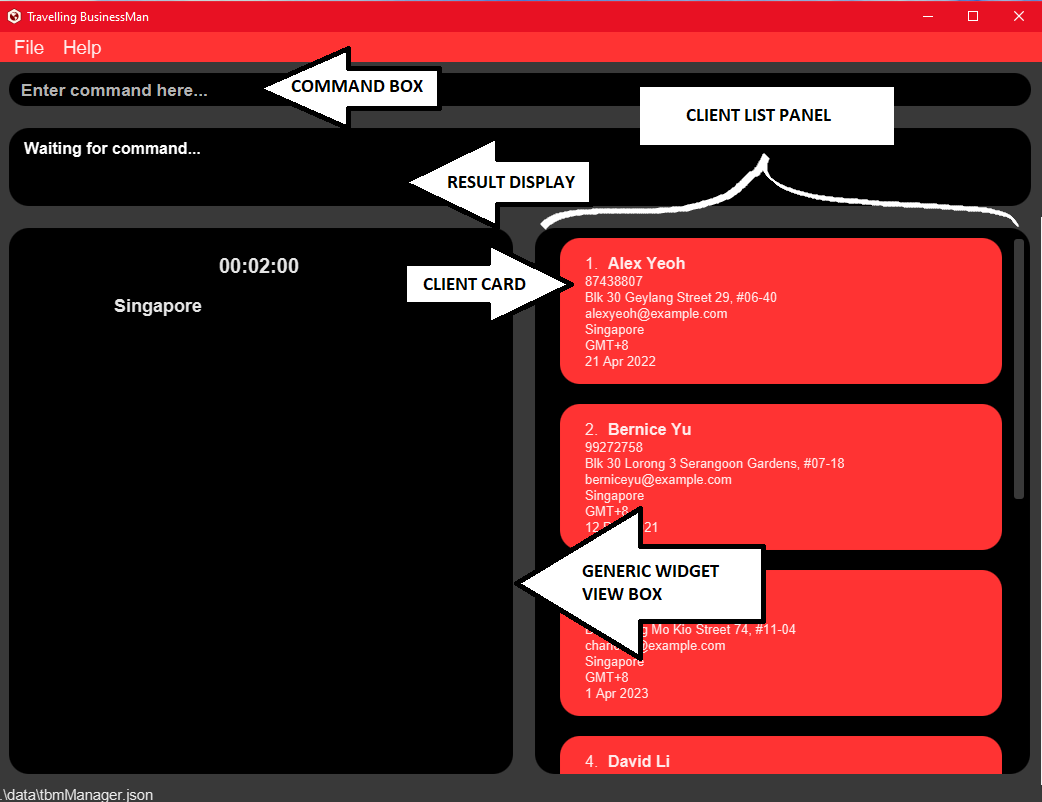
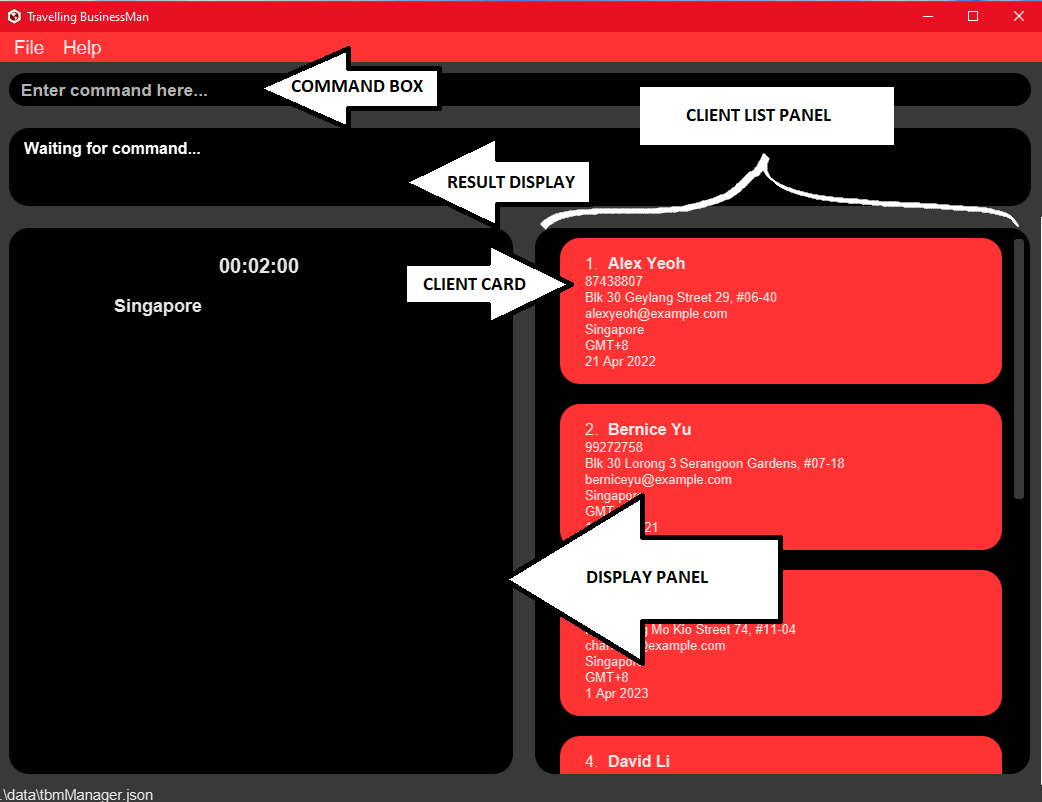
Change annotations and make clearer reference to diagram+

Changed region(s): [[0.4914, 0.6234, 0.7678, 0.7793], [0.5528, 0.7793, 0.6142, 0.8416], [0.5221, 0.7481, 0.5528, 0.7793]]

diff --git a/docs/UserGuide.md b/docs/UserGuide.md
@@ -104,8 +104,7 @@ Format: `list`
 
 ### Viewing help: `help`
 
-Shows commonly used commands for **_TBM_** in a new help window. Pressing Esc will close this window.
-![help window](./images/command-screenshots/help_window.png)
+Shows commonly used commands for **_TBM_** in a [new help window](#help-window). Pressing Esc will close this window.
 
 Format: `help`
 
@@ -126,7 +125,7 @@ Example:
 Views the client specified by the `INDEX` parameter.
 <div markdown="block" class="alert alert-info">
 
-**:information_source:** Please refer to the [this](#view-for-client) if you need to be re-acquainted with the UI for client related commands
+**:information_source:** Please refer to [this](#ui-when-viewing-clients) if you need to be re-acquainted with the UI for client related commands
 </div>
 
 Format: `client view INDEX`
@@ -225,7 +224,7 @@ Example:
 
 Your data is automatically saved after every change. The file is saved in the ubiquitous `.json` format, which
 allows you to edit the file manually without even opening **TBM** up.
-The location for this file is `./data/tbmManager.json` (indicated at the bottom left of the window), where the
+The location for this file is `./data/tbmManager.json` (indicated at the bottom left of the application), where the
  `.` represents the directory where you have saved `TBM.jar`. Here's a snippet of this editable text file:
 
 ```json5
@@ -349,7 +348,7 @@ Examples:
 
 <div markdown="block" class="alert alert-info">
 
-**:information_source:** Please refer to the [this](#appendix-a---introduction-to-the-ui) if you need to be re-acquainted with the UI for country related commands
+**:information_source:** Please refer to [this](#ui-when-viewing-country) if you need to be re-acquainted with the UI for country related commands
 </div>
 
 
@@ -543,7 +542,7 @@ The diagram below shows the key UI elements of TBM upon first start-up.
 
 ![Annotated UI Default Page](images/command-screenshots/UI_annotated.png)
 
-* **Command Box** allows you to input commands in their correct syntax to interact with TBM.
+* **Command Box** allows you to input commands to interact with TBM.
 
 * **Client List Panel** will always allow you to view all your clients' information at a go. It's scrollable so that you 
 never have to worry about not being able to see all your important clients at a single glance!
@@ -557,7 +556,7 @@ never have to worry about not being able to see all your important clients at a 
  
      ![Result Display slowing error message](images/command-screenshots/result_display_error_syntax.png)
      
-* **Generic Widget View Box** is aptly named because it shall spawn *Client Cards* or *Country Cards* when
+* **Generic Widget View Box** is aptly named because it shall render *Client Cards* or *Country Cards* when
  relevant commands are sent. Initially it will show you your local time to the precise second, as well as your current location.
    
      
@@ -570,16 +569,21 @@ The diagram below is what you should see upon viewing a particular client (i.e. 
 
 ![Annotated Client View UI Layout](images/command-screenshots/client_view_annotated.png)
 
-Here, the **Client Card** displaying the note that's tagged as `hobbies` is referred to by the `CLIENT_INDEX` of `1`.
+Here, the **Client Note Card** displaying the note that's tagged as `hobbies` is referred to by the `CLIENT_INDEX` of `1`.
 
 Being able to identify these is key to adding, deleting and editing client notes as well as editing clients.
 
 ### UI when Viewing Country
 
-Similarly, `COUNTRY_NOTE_INDEX` can be identified like so by referring to the index indicated on the **Country Card**:
+Similarly, `COUNTRY_NOTE_INDEX` can be identified like so by referring to the index indicated on the **Country Note Card**:
 
 ![Annotated Country View UI Layout](images/command-screenshots/country_note_view_annotated.png)
 
+
+### Help Window
+
+This is what to expect when you type in the `help` command or pres `F1`: 
+![help window](./images/command-screenshots/help_window.png)
 
 <p align="center"> **_{End of Appendix A, please return to the <a href="#table-of-contents">Table of Contents</a> }_**</p>
 --------------------------------------------------------------------------------------------------------------------
